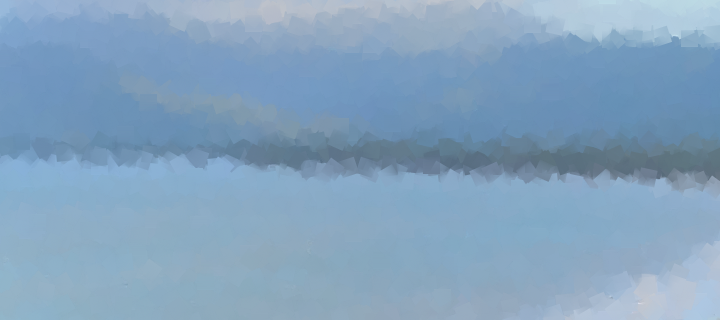
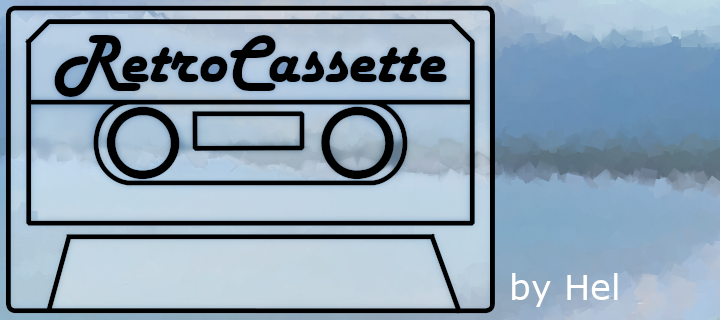
fix appglance
also add date

diff --git a/src/c/RetroCassette.c b/src/c/RetroCassette.c
@@ -19,11 +19,16 @@ static ClaySettings settings;
 
 static Window *s_main_window;
 static TextLayer *s_time_layer;
+static TextLayer *s_date_layer;
 static GBitmap *s_bitmap;
 static BitmapLayer *s_bitmap_layer;
+static Layer *s_window_layer;
 
 // I'm making this global so that I can always get the value
 int tick_counter;
+
+// Is the screen obstructed?
+static bool s_screen_is_obstructed;
 
 // Save the settings to persistent storage
 static void default_settings() {
@@ -78,19 +83,91 @@ static void update_time() {
   // Display this time on the TextLayer
   text_layer_set_text(s_time_layer, s_buffer);
 
+  // Display this date to the other TextLayer
+  static char d_buffer[80];
+  strftime(d_buffer, sizeof(d_buffer), "%B %d", tick_time);
+  text_layer_set_text(s_date_layer, d_buffer);
+  
 }
+
+// Event fires once, before the obstruction appears or disappears
+static void prv_unobstructed_will_change(GRect final_unobstructed_screen_area, void *context) {
+  if (s_screen_is_obstructed) {
+    // Obstruction is about disappear
+  } else {
+    // Obstruction is about to appear
+  }
+  APP_LOG(APP_LOG_LEVEL_DEBUG,
+    "Available screen area: width: %d, height: %d",
+    final_unobstructed_screen_area.size.w,
+    final_unobstructed_screen_area.size.h);
+}
+
+// Event fires once, after obstruction appears or disappears
+static void prv_unobstructed_did_change(void *context) {
+  // Keep track if the screen is obstructed or not
+  s_screen_is_obstructed = !s_screen_is_obstructed;
+
+  if(s_screen_is_obstructed) {
+    // text_layer_set_text(s_text_layer, "Obstructed!");
+  } else {
+    // text_layer_set_text(s_text_layer, "Unobstructed!");
+  }
+}
+
+// Event fires frequently, while obstruction is appearing or disappearing
+static void prv_unobstructed_change(AnimationProgress progress, void *context) {
+  APP_LOG(APP_LOG_LEVEL_DEBUG, "Progress %d", (int)progress);
+
+  //text_layer_set_text(s_time_layer, "Changing!");
+
+  // Current unobstructed window size
+  GRect bounds = layer_get_unobstructed_bounds(s_window_layer);
+
+  // Move the text layers
+  GRect time_text_frame = layer_get_frame(text_layer_get_layer(s_time_layer));
+//  time_text_frame.origin.y = (bounds.size.h/2);
+  layer_set_frame(text_layer_get_layer(s_time_layer), time_text_frame);
+
+  GRect date_text_frame = layer_get_frame(text_layer_get_layer(s_date_layer));
+  layer_set_frame(text_layer_get_layer(s_date_layer), date_text_frame);
+
+  GRect bitmap_frame = layer_get_frame(bitmap_layer_get_layer(s_bitmap_layer));
+
+  if (!s_screen_is_obstructed) {
+    APP_LOG(APP_LOG_LEVEL_DEBUG, "Not Obstructed");
+    bitmap_frame.origin.y = (bounds.size.h/4 -15);
+    time_text_frame.origin.y = (110);
+    date_text_frame.origin.y = (0);
+  } else {
+    APP_LOG(APP_LOG_LEVEL_DEBUG, "Obstructed");
+    
+    bitmap_frame.origin.y =  (-bounds.size.h/4);
+    time_text_frame.origin.y = (55);
+    date_text_frame.origin.y = (-110);
+  }
+  layer_set_frame(bitmap_layer_get_layer(s_bitmap_layer), bitmap_frame);
+  layer_set_frame(text_layer_get_layer(s_time_layer), time_text_frame);
+  layer_set_frame(text_layer_get_layer(s_date_layer), date_text_frame);
+}
+
 
 static void main_window_load(Window *window) {
   // Get information about the Window
-  Layer *window_layer = window_get_root_layer(window);
-  GRect bounds = layer_get_bounds(window_layer);
-  
+  s_window_layer = window_get_root_layer(window);
+  GRect bounds = layer_get_bounds(s_window_layer);
+  GRect fullscreen = layer_get_bounds(s_window_layer);
+  GRect unobstructed_bounds = layer_get_unobstructed_bounds(s_window_layer);
+
+  // Determine if the screen is obstructed when the app starts
+  s_screen_is_obstructed = grect_equal(&fullscreen, &unobstructed_bounds);
+
   //////////////BASIC LAYER////////////////////
   // Create the canvas Layer
   s_bitmap = gbitmap_create_with_resource(RESOURCE_ID_LOADING);
   
   bitmap_layer_set_bitmap(s_bitmap_layer, s_bitmap);
-  s_bitmap_layer = bitmap_layer_create(GRect(0,0, bounds.size.w, bounds.size.h));
+  s_bitmap_layer = bitmap_layer_create(GRect(0,(unobstructed_bounds.size.h/4 -15), unobstructed_bounds.size.w, unobstructed_bounds.size.h));
   bitmap_layer_set_compositing_mode(s_bitmap_layer, GCompOpSet);
    
   bitmap_layer_set_bitmap(s_bitmap_layer, s_bitmap);
@@ -100,24 +177,53 @@ static void main_window_load(Window *window) {
   //////////////TIME LAYER////////////////////
   // Create the TextLayer with specific bounds 
   // s_time_layer = text_layer_create(GRect(PBL_IF_ROUND_ELSE(0, -20),PBL_IF_ROUND_ELSE(125, 125), bounds.size.w, bounds.size.h));
-  s_time_layer = text_layer_create(GRect(0 ,85, bounds.size.w, bounds.size.h));
+  s_time_layer = text_layer_create(GRect(0, 110, unobstructed_bounds.size.w, unobstructed_bounds.size.h));
 
   // Improve the layout to be more like a watchface
   text_layer_set_background_color(s_time_layer, GColorClear);
   text_layer_set_text_color(s_time_layer, GColorBlack);
   text_layer_set_text(s_time_layer, "00:00");
-  text_layer_set_font(s_time_layer, fonts_get_system_font(FONT_KEY_LECO_42_NUMBERS));
+  text_layer_set_font(s_time_layer, fonts_get_system_font(FONT_KEY_ROBOTO_BOLD_SUBSET_49));
   text_layer_set_text_alignment(s_time_layer, GTextAlignmentCenter);
   // Add it as a child layer to the Window's root layer
-  layer_add_child(window_layer, text_layer_get_layer(s_time_layer));
+  layer_add_child(s_window_layer, text_layer_get_layer(s_time_layer));
    
+  //////////////DATE LAYER////////////////////
+  // Create the TextLayer with specific bounds 
+  // s_date_layer = text_layer_create(GRect(PBL_IF_ROUND_ELSE(0, -20),PBL_IF_ROUND_ELSE(125, 125), bounds.size.w, bounds.size.h));
+  s_date_layer = text_layer_create(GRect(0, 0, unobstructed_bounds.size.w, unobstructed_bounds.size.h));
+
+  // Improve the layout for humans
+  text_layer_set_background_color(s_date_layer, GColorClear);
+  text_layer_set_text_color(s_date_layer, GColorBlack);
+  //text_layer_set_text(s_date_layer, "August 31");
+  text_layer_set_font(s_date_layer, fonts_get_system_font(FONT_KEY_ROBOTO_CONDENSED_21));
+  text_layer_set_text_alignment(s_date_layer, GTextAlignmentCenter);
+  // Add it as a child layer to the Window's root layer
+  layer_add_child(s_window_layer, text_layer_get_layer(s_date_layer));
+  
+
+   
+  // Subscribe to the unobstructed area events
+  UnobstructedAreaHandlers handlers = {
+    .will_change = prv_unobstructed_will_change,
+    .change = prv_unobstructed_change,
+    .did_change = prv_unobstructed_did_change
+  };
+  unobstructed_area_service_subscribe(handlers, NULL);
+
   // Make sure the time is displayed from the start
   update_time();
 }
 
 static void main_window_unload(Window *window) {
-  // Destroy TextLayer
+  
+  // Unsubscribe from the unobstructed area service
+  unobstructed_area_service_unsubscribe();
+
+  // Destroy TextLayers
   text_layer_destroy(s_time_layer);
+  text_layer_destroy(s_date_layer);
   //Destroy the BG
   gbitmap_destroy(s_bitmap);
   bitmap_layer_destroy(s_bitmap_layer);
@@ -143,7 +249,7 @@ static void update_background_bmp(DictionaryIterator *iterator) {
   //HEL TO DO, does this get over written when nothing is returned for those values?
   save_settings();
 
-  APP_LOG(APP_LOG_LEVEL_ERROR, "update_background_bmp settings.era: %s", settings.era);
+  APP_LOG(APP_LOG_LEVEL_DEBUG, "update_background_bmp settings.era: %s", settings.era);
   if (strlen(settings.era)>0){
     gbitmap_destroy(s_bitmap);
     s_bitmap = NULL;
@@ -187,8 +293,7 @@ static void inbox_dropped_callback(AppMessageResult reason, void *context) {
   APP_LOG(APP_LOG_LEVEL_ERROR, "inbox_dropped_callback Message dropped! Reason: %d", (int)reason);
 }
 
-static void outbox_failed_callback(DictionaryIterator *iter,
-                                      AppMessageResult reason, void *context) {
+static void outbox_failed_callback(DictionaryIterator *iter, AppMessageResult reason, void *context) {
   // The message just sent failed to be delivered
   APP_LOG(APP_LOG_LEVEL_ERROR, "outbox_failed_callback Message send failed. Reason: %d", (int)reason);
 }
